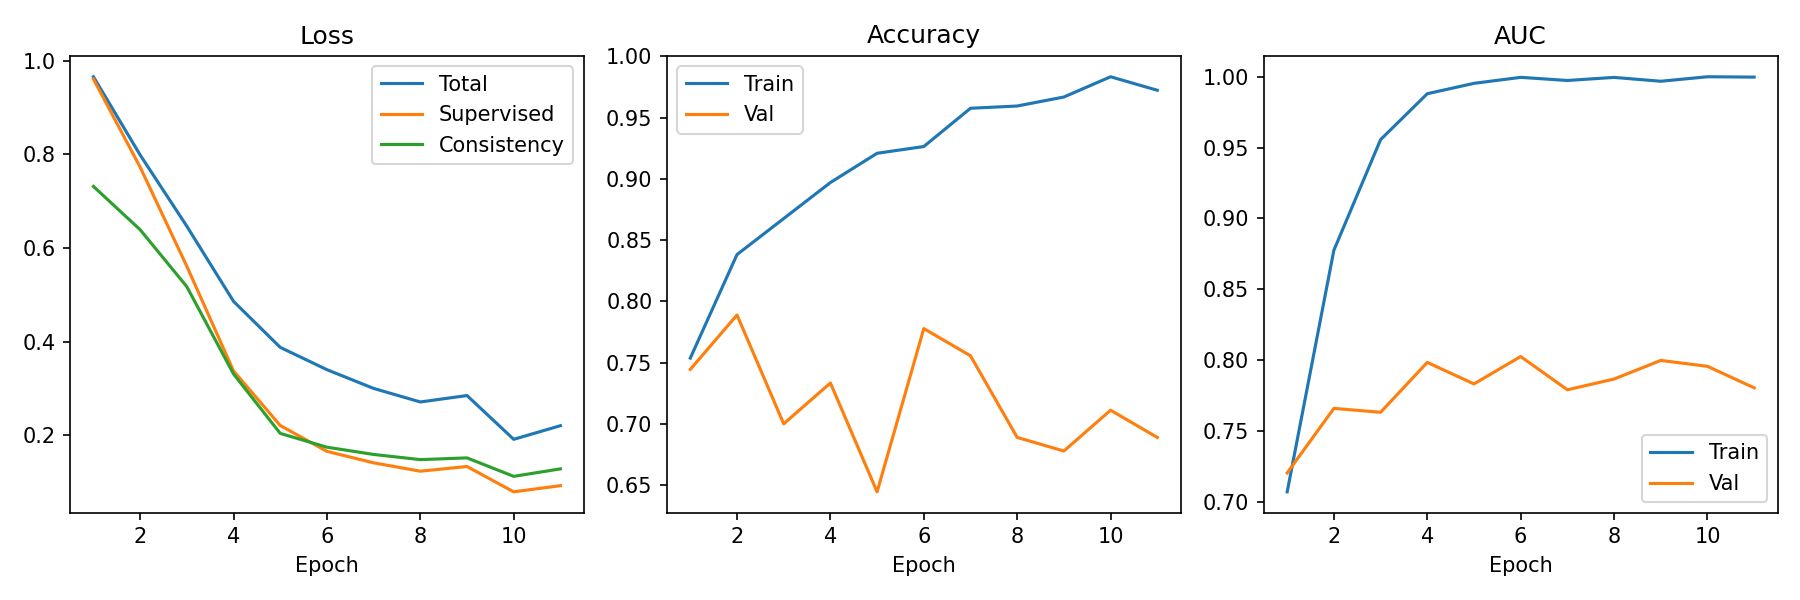
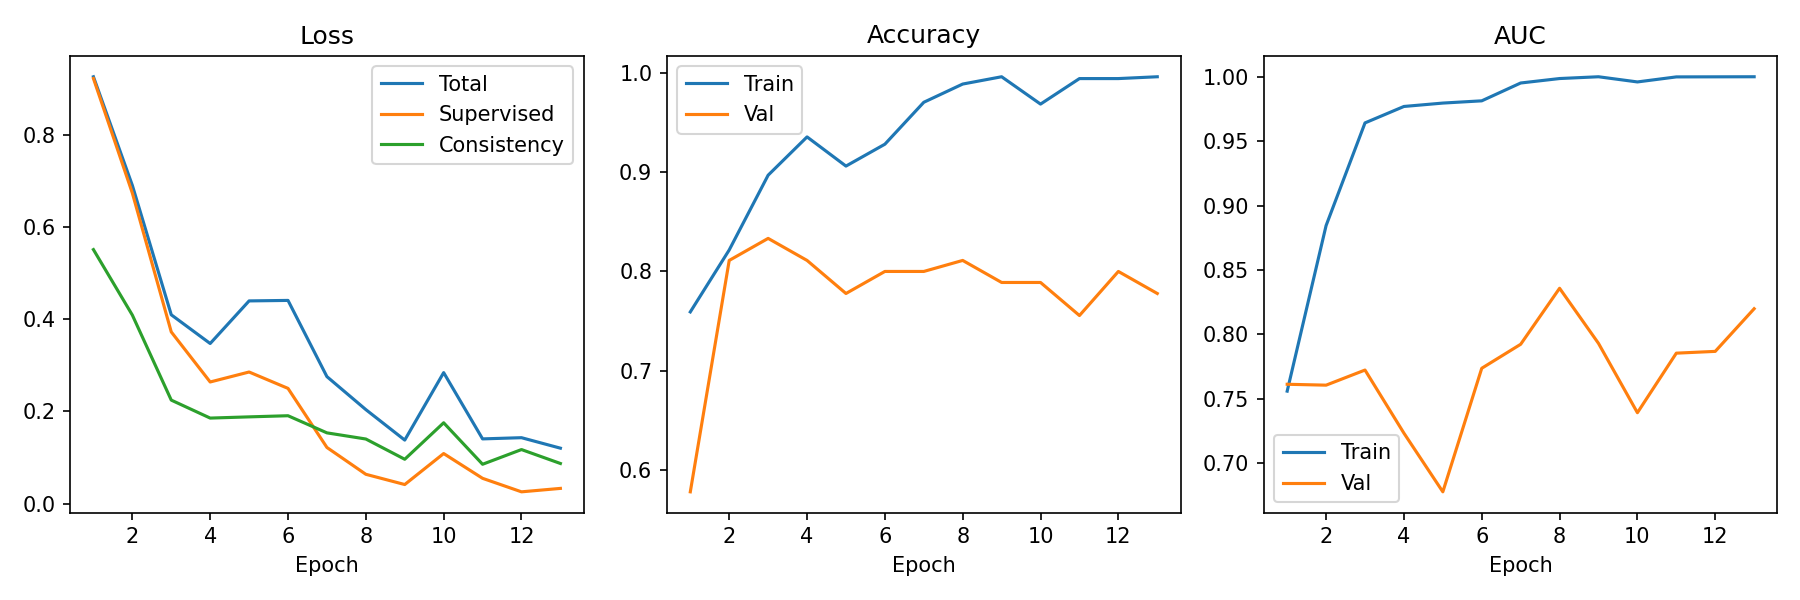
Add FlexMatch support and mixed precision training; enhance configuration options and update training logic for improved performance

diff --git a/lesion_classification/trainer.py b/lesion_classification/trainer.py
@@ -23,6 +23,7 @@ def train_one_epoch_mean_teacher(
     consistency_criterion: nn.Module,
     device: torch.device,
     epoch: int,
+    scaler: torch.cuda.amp.GradScaler | None = None,
 ) -> tuple[float, float, float, float, float]:
     """Train the Mean Teacher model for one epoch."""
     model.student_model.train()
@@ -48,24 +49,33 @@ def train_one_epoch_mean_teacher(
         unlabeled_imgs = unlabeled_imgs.to(device)
 
         optimizer.zero_grad()
+        with torch.cuda.amp.autocast(enabled=settings.USE_AMP and device.type == "cuda"):
+            # 1. Supervised Loss (Student on Labeled Data)
+            labeled_preds = model.student_model(labeled_imgs)
+            supervised_loss = supervised_criterion(labeled_preds, labeled_targets)
 
-        # 1. Supervised Loss (Student on Labeled Data)
-        labeled_preds = model.student_model(labeled_imgs)
-        supervised_loss = supervised_criterion(labeled_preds, labeled_targets)
+            # 2. Consistency Loss (Student vs Teacher on Unlabeled Data)
+            unlabeled_preds_student = model.student_model(unlabeled_imgs)
+            with torch.no_grad():
+                unlabeled_preds_teacher = model.teacher_model(unlabeled_imgs)
 
-        # 2. Consistency Loss (Student vs Teacher on Unlabeled Data)
-        unlabeled_preds_student = model.student_model(unlabeled_imgs)
-        with torch.no_grad():
-            unlabeled_preds_teacher = model.teacher_model(unlabeled_imgs)
+            consistency_weight = model.get_consistency_weight(epoch)
+            teacher_logits = unlabeled_preds_teacher / settings.TEACHER_TEMPERATURE
+            consistency_loss = consistency_weight * consistency_criterion(unlabeled_preds_student, teacher_logits)
 
-        consistency_weight = model.get_consistency_weight(epoch)
-        teacher_logits = unlabeled_preds_teacher / settings.TEACHER_TEMPERATURE
-        consistency_loss = consistency_weight * consistency_criterion(unlabeled_preds_student, teacher_logits)
+            # 3. Total Loss
+            total_loss = supervised_loss + consistency_loss
 
-        # 3. Total Loss and Optimization
-        total_loss = supervised_loss + consistency_loss
-        total_loss.backward()
-        optimizer.step()
+        if scaler is not None:
+            scaler.scale(total_loss).backward()
+            scaler.unscale_(optimizer)
+            torch.nn.utils.clip_grad_norm_(model.student_model.parameters(), settings.MAX_GRAD_NORM)
+            scaler.step(optimizer)
+            scaler.update()
+        else:
+            total_loss.backward()
+            torch.nn.utils.clip_grad_norm_(model.student_model.parameters(), settings.MAX_GRAD_NORM)
+            optimizer.step()
 
         # 4. Update Teacher Parameters (EMA)
         model.update_teacher_model(current_epoch=epoch)
@@ -104,6 +114,7 @@ def train_one_epoch_fixmatch(
     supervised_criterion: nn.Module,
     device: torch.device,
     epoch: int,
+    scaler: torch.cuda.amp.GradScaler | None = None,
 ) -> tuple[float, float, float, float, float]:
     """Train using FixMatch-style pseudo-labeling."""
     model.train()
@@ -114,6 +125,9 @@ def train_one_epoch_fixmatch(
     labeled_preds_list = []
     labeled_labels_list = []
     ema_pos = None
+    if settings.FLEXMATCH_ENABLE:
+        ema_select = torch.tensor([0.0, 0.0], device=device)
+        ema_total = torch.tensor([1e-6, 1e-6], device=device)
 
     def rampup_weight(current_epoch: int) -> float:
         if settings.FIXMATCH_RAMPUP_EPOCHS <= 0:
@@ -133,23 +147,20 @@ def train_one_epoch_fixmatch(
         strong_imgs = strong_imgs.to(device)
 
         optimizer.zero_grad()
+        with torch.cuda.amp.autocast(enabled=settings.USE_AMP and device.type == "cuda"):
+            labeled_logits = model(labeled_imgs)
+            supervised_loss = supervised_criterion(labeled_logits, labeled_targets)
+            labeled_probs = torch.sigmoid(labeled_logits)
+            labeled_preds_list.extend(labeled_probs.detach().cpu().numpy())
+            labeled_labels_list.extend(labeled_targets.detach().cpu().numpy())
 
-        labeled_logits = model(labeled_imgs)
-        supervised_loss = supervised_criterion(labeled_logits, labeled_targets)
-        labeled_probs = torch.sigmoid(labeled_logits)
-        labeled_preds_list.extend(labeled_probs.detach().cpu().numpy())
-        labeled_labels_list.extend(labeled_targets.detach().cpu().numpy())
-
-        with torch.no_grad():
-            weak_logits = model(weak_imgs)
-            weak_probs = torch.sigmoid(weak_logits)
+            with torch.no_grad():
+                weak_logits = model(weak_imgs)
+                weak_probs = torch.sigmoid(weak_logits)
 
             if settings.FIXMATCH_DISTRIBUTION_ALIGNMENT and settings.TRAIN_POS_RATIO is not None:
                 batch_pos = weak_probs.mean().clamp(1e-6, 1 - 1e-6)
-                if ema_pos is None:
-                    ema_pos = batch_pos
-                else:
-                    ema_pos = settings.FIXMATCH_DA_MOMENTUM * ema_pos + (1 - settings.FIXMATCH_DA_MOMENTUM) * batch_pos
+                ema_pos = batch_pos if ema_pos is None else settings.FIXMATCH_DA_MOMENTUM * ema_pos + (1 - settings.FIXMATCH_DA_MOMENTUM) * batch_pos
                 target_pos = torch.tensor(settings.TRAIN_POS_RATIO, device=weak_probs.device)
                 scale_pos = target_pos / ema_pos
                 scale_neg = (1 - target_pos) / (1 - ema_pos)
@@ -163,23 +174,54 @@ def train_one_epoch_fixmatch(
 
             confidence = torch.maximum(weak_probs, 1 - weak_probs)
             pseudo_labels = (weak_probs >= 0.5).float()
-            if settings.FIXMATCH_USE_CLASS_THRESHOLDS and settings.TRAIN_POS_RATIO is not None and settings.TRAIN_NEG_RATIO is not None:
+            if settings.FLEXMATCH_ENABLE:
+                batch_pos = (pseudo_labels > 0.5).float()
+                batch_neg = 1.0 - batch_pos
+                ema_total = settings.FLEXMATCH_MOMENTUM * ema_total + (1 - settings.FLEXMATCH_MOMENTUM) * torch.stack([batch_neg.mean(), batch_pos.mean()])
+                select_mask = (confidence >= settings.FIXMATCH_TAU).float()
+                ema_select = settings.FLEXMATCH_MOMENTUM * ema_select + (1 - settings.FLEXMATCH_MOMENTUM) * torch.stack(
+                    [(select_mask * batch_neg).mean(), (select_mask * batch_pos).mean()]
+                )
+                class_ratio = ema_select / ema_total
+                max_ratio = class_ratio.max().clamp(min=1e-6)
+                tau_neg = max(settings.FIXMATCH_MIN_TAU, float(settings.FIXMATCH_TAU * (class_ratio[0] / max_ratio)))
+                tau_pos = max(settings.FIXMATCH_MIN_TAU, float(settings.FIXMATCH_TAU * (class_ratio[1] / max_ratio)))
+                thresholds = torch.where(
+                    pseudo_labels > 0.5,
+                    torch.tensor(tau_pos, device=confidence.device),
+                    torch.tensor(tau_neg, device=confidence.device),
+                )
+                mask = (confidence >= thresholds).float()
+            elif settings.FIXMATCH_USE_CLASS_THRESHOLDS and settings.TRAIN_POS_RATIO is not None and settings.TRAIN_NEG_RATIO is not None:
                 max_ratio = max(settings.TRAIN_POS_RATIO, settings.TRAIN_NEG_RATIO)
                 tau_pos = max(settings.FIXMATCH_MIN_TAU, settings.FIXMATCH_TAU * (settings.TRAIN_POS_RATIO / max_ratio))
                 tau_neg = max(settings.FIXMATCH_MIN_TAU, settings.FIXMATCH_TAU * (settings.TRAIN_NEG_RATIO / max_ratio))
-                thresholds = torch.where(pseudo_labels > 0.5, torch.tensor(tau_pos, device=confidence.device), torch.tensor(tau_neg, device=confidence.device))
+                thresholds = torch.where(
+                    pseudo_labels > 0.5,
+                    torch.tensor(tau_pos, device=confidence.device),
+                    torch.tensor(tau_neg, device=confidence.device),
+                )
                 mask = (confidence >= thresholds).float()
             else:
                 mask = (confidence >= settings.FIXMATCH_TAU).float()
 
-        strong_logits = model(strong_imgs)
-        unsup_loss = F.binary_cross_entropy_with_logits(strong_logits, pseudo_labels, reduction="none")
-        unsup_loss = (unsup_loss * mask).sum() / (mask.sum() + 1e-8)
+            strong_logits = model(strong_imgs)
+            unsup_loss = F.binary_cross_entropy_with_logits(strong_logits, pseudo_labels, reduction="none")
+            unsup_loss = (unsup_loss * mask).sum() / (mask.sum() + 1e-8)
 
-        lambda_u = settings.FIXMATCH_LAMBDA_U * rampup_weight(epoch)
-        total_loss = supervised_loss + lambda_u * unsup_loss
-        total_loss.backward()
-        optimizer.step()
+            lambda_u = settings.FIXMATCH_LAMBDA_U * rampup_weight(epoch)
+            total_loss = supervised_loss + lambda_u * unsup_loss
+
+        if scaler is not None:
+            scaler.scale(total_loss).backward()
+            scaler.unscale_(optimizer)
+            torch.nn.utils.clip_grad_norm_(model.parameters(), settings.MAX_GRAD_NORM)
+            scaler.step(optimizer)
+            scaler.update()
+        else:
+            total_loss.backward()
+            torch.nn.utils.clip_grad_norm_(model.parameters(), settings.MAX_GRAD_NORM)
+            optimizer.step()
 
         total_loss_accum += total_loss.item()
         sup_loss_accum += supervised_loss.item()
@@ -247,6 +289,7 @@ def run_training(
     """Main training loop."""
     device = torch.device(device)
     model.to(device)
+    scaler = torch.cuda.amp.GradScaler(enabled=settings.USE_AMP and device.type == "cuda")
 
     history = {
         "loss_total": [],
@@ -265,10 +308,12 @@ def run_training(
 
     for epoch in range(epochs):
         if settings.SSL_METHOD == "fixmatch":
-            avg_loss, sup_loss, con_loss, train_acc, train_auc = train_one_epoch_fixmatch(model, train_loader, unlabeled_loader, optimizer, supervised_criterion, device, epoch)
+            avg_loss, sup_loss, con_loss, train_acc, train_auc = train_one_epoch_fixmatch(
+                model, train_loader, unlabeled_loader, optimizer, supervised_criterion, device, epoch, scaler
+            )
         else:
             avg_loss, sup_loss, con_loss, train_acc, train_auc = train_one_epoch_mean_teacher(
-                model, train_loader, unlabeled_loader, optimizer, supervised_criterion, consistency_criterion, device, epoch
+                model, train_loader, unlabeled_loader, optimizer, supervised_criterion, consistency_criterion, device, epoch, scaler
             )
 
         val_acc, val_auc, val_ap, val_pos_rate = validate(model, val_loader, device)

diff --git a/lesion_classification/main.py b/lesion_classification/main.py
@@ -1,7 +1,9 @@
+import math
+
 import torch
 from torch import nn
-from torch.optim import Adam
-from torch.optim.lr_scheduler import CosineAnnealingLR
+from torch.optim import AdamW
+from torch.optim.lr_scheduler import LambdaLR
 
 from .config import settings
 from .data import get_class_counts, get_dataloaders, prepare_data
@@ -51,7 +53,7 @@ def main():
         )
 
     # 5. Optimizer, Loss, Scheduler
-    optimizer = Adam(model.parameters(), lr=settings.LEARNING_RATE, weight_decay=settings.WEIGHT_DECAY)
+    optimizer = AdamW(model.parameters(), lr=settings.LEARNING_RATE, weight_decay=settings.WEIGHT_DECAY)
     if settings.SUPERVISED_LOSS == "bce":
         pos_weight_value = settings.POS_WEIGHT
         if settings.AUTO_POS_WEIGHT and benign_count > 0 and malignant_count > 0:
@@ -63,7 +65,13 @@ def main():
         supervised_criterion = BCEFocalLoss(gamma=settings.FOCAL_GAMMA, alpha=settings.FOCAL_ALPHA)
     consistency_criterion = nn.MSELoss()
 
-    scheduler = CosineAnnealingLR(optimizer=optimizer, T_max=settings.EPOCHS)
+    def lr_lambda(epoch: int) -> float:
+        if epoch < settings.WARMUP_EPOCHS:
+            return float(epoch + 1) / float(max(1, settings.WARMUP_EPOCHS))
+        progress = (epoch - settings.WARMUP_EPOCHS) / float(max(1, settings.EPOCHS - settings.WARMUP_EPOCHS))
+        return 0.5 * (1.0 + math.cos(math.pi * progress))
+
+    scheduler = LambdaLR(optimizer=optimizer, lr_lambda=lr_lambda)
 
     # 6. Training
     model, history = run_training(

diff --git a/lesion_classification/config.py b/lesion_classification/config.py
@@ -59,6 +59,8 @@ class Settings(BaseSettings):
     FIXMATCH_DISTRIBUTION_ALIGNMENT: bool = True
     FIXMATCH_DA_MOMENTUM: float = 0.9
     FIXMATCH_SHARPEN_T: float = 0.5
+    FLEXMATCH_ENABLE: bool = True
+    FLEXMATCH_MOMENTUM: float = 0.9
 
     # Training control
     EARLY_STOP_PATIENCE: int = 5
@@ -66,6 +68,9 @@ class Settings(BaseSettings):
     BEST_METRIC: str = "val_auc"  # "val_auc" or "val_ap"
     CHECKPOINT_DIR: Path = PROJECT_ROOT / "checkpoints"
     RESULTS_DIR: Path = PROJECT_ROOT / "results"
+    WARMUP_EPOCHS: int = 2
+    USE_AMP: bool = True
+    MAX_GRAD_NORM: float = 1.0
 
     # Derived stats (populated at runtime)
     TRAIN_POS_RATIO: float | None = None
